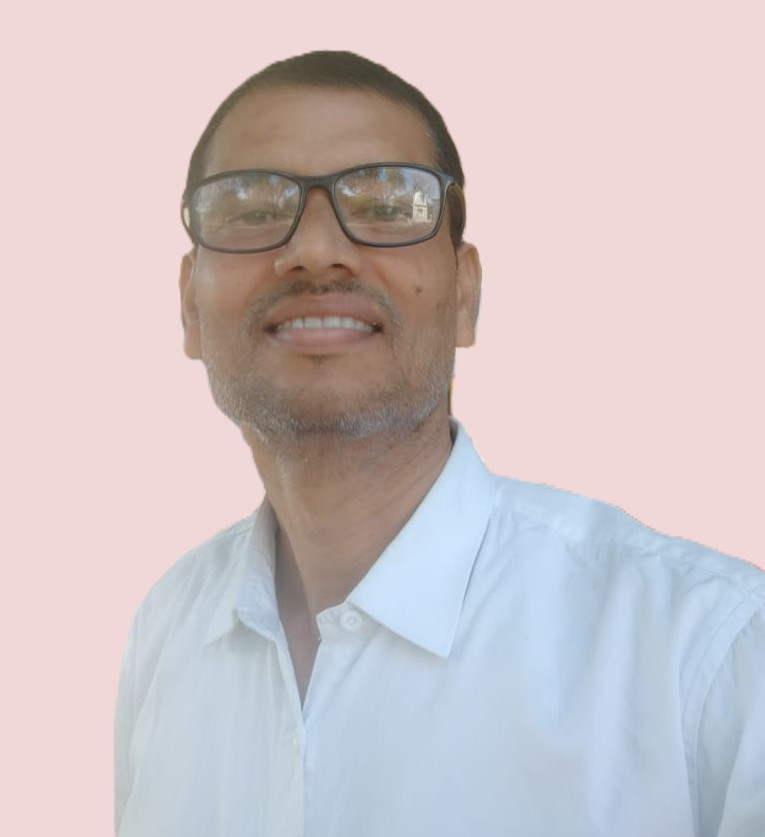
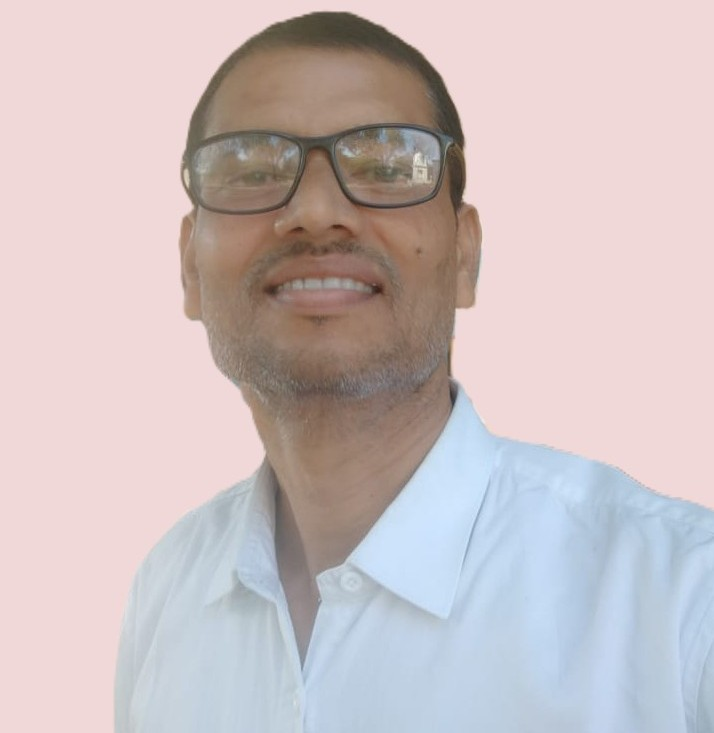
Member updated

diff --git a/index.html b/index.html
@@ -1347,7 +1347,13 @@
         </div>
         <div class="col-lg-4 col-md-6 wow fadeInUp" data-wow-delay="0.3s">
           <div class="team-item text-center p-4">
-            <img class="img-fluid border rounded-circle w-75 p-2 mb-4" src="img/Members/devendra_mahan.png" alt="" />
+            <div class="img-bio-wrapper position-relative d-inline-block">
+              <img class="img-fluid border rounded-circle w-75 p-2 mb-4" src="img/Members/devendra_mahan.png" alt="" />
+              <button class="btn btn-success rounded-pill btn-sm bio-btn position-absolute translate-middle-x start-50"
+                style="bottom: 0;" data-member="devendra" type="button">
+                <i class="fas fa-info-circle"></i>
+              </button>
+            </div>
             <div class="team-text">
               <div class="team-title">
                 <h5>Devendra Mahan</h5>
@@ -1447,7 +1453,13 @@
       <div class="row g-4">
         <div class="col-lg-4 col-md-6 wow fadeInUp" data-wow-delay="0.1s">
           <div class="team-item text-center p-4">
-            <img class="img-fluid border rounded-circle w-75 p-2 mb-4" src="img/Members/manohar.png" alt="" />
+            <div class="img-bio-wrapper position-relative d-inline-block">
+              <img class="img-fluid border rounded-circle w-75 p-2 mb-4" src="img/Members/manohar.png" alt="" />
+              <button class="btn btn-success rounded-pill btn-sm bio-btn position-absolute translate-middle-x start-50"
+                style="bottom: 0;" data-member="manoharsingh" type="button">
+                <i class="fas fa-info-circle"></i>
+              </button>
+            </div>
             <div class="team-text">
               <div class="team-title">
                 <h5>Manohar Singh</h5>
@@ -1552,7 +1564,13 @@
         </div>
         <div class="col-lg-4 col-md-6 wow fadeInUp" data-wow-delay="0.3s">
           <div class="team-item text-center p-4">
-            <img class="img-fluid border rounded-circle w-75 p-2 mb-4" src="img/Members/indrapal.jpeg" alt="" />
+            <div class="img-bio-wrapper position-relative d-inline-block">
+              <img class="img-fluid border rounded-circle w-75 p-2 mb-4" src="img/Members/indrapal.jpeg" alt="" />
+              <button class="btn btn-success rounded-pill btn-sm bio-btn position-absolute translate-middle-x start-50"
+                style="bottom: 0;" data-member="indrapal" type="button">
+                <i class="fas fa-info-circle"></i>
+              </button>
+            </div>
             <div class="team-text">
               <div class="team-title">
                 <h5>Indrapal Singh</h5>
@@ -1642,7 +1660,13 @@
         </div>
         <div class="col-lg-4 col-md-6 wow fadeInUp" data-wow-delay="0.3s">
           <div class="team-item text-center p-4">
-            <img class="img-fluid border rounded-circle w-75 p-2 mb-4" src="img/Members/shreeram.jpeg" alt="" />
+            <div class="img-bio-wrapper position-relative d-inline-block">
+              <img class="img-fluid border rounded-circle w-75 p-2 mb-4" src="img/Members/shreeram.jpeg" alt="" />
+              <button class="btn btn-success rounded-pill btn-sm bio-btn position-absolute translate-middle-x start-50"
+                style="bottom: 0;" data-member="shriram" type="button">
+                <i class="fas fa-info-circle"></i>
+              </button>
+            </div>
             <div class="team-text">
               <div class="team-title">
                 <h5>Shriram Singh</h5>
@@ -1675,7 +1699,7 @@
               <img class="img-fluid border rounded-circle w-75 p-2 mb-4" src="img/Members/rampal.jpeg" alt="" />
               <div class="team-text">
                 <div class="team-title">
-                  <h5>Rampal Singh"</h5>
+                  <h5>Rampal Singh</h5>
                   <span>Committee Member</span>
                 </div>
                 <div class="team-social">
@@ -1686,14 +1710,14 @@
           </div>
           <div class="col-lg-4 col-md-6 wow fadeInUp" data-wow-delay="0.3s">
             <div class="team-item text-center p-4">
-              <img class="img-fluid border rounded-circle w-75 p-2 mb-4" src="img/Members/Ramkishor.jpeg" alt="" />
+              <img class="img-fluid border rounded-circle w-75 p-2 mb-4" src="img/Members/parmanand.jpeg" alt="" />
               <div class="team-text">
                 <div class="team-title">
-                  <h5>Ramkishor Rajput </h5>
+                  <h5>Parmanand Anuragi</h5>
                   <span>Committee Member</span>
                 </div>
                 <div class="team-social">
-                  <h5 class="profession-title">Agriculture department</h5>
+                  <h5 class="profession-title">(व्यवसायी) राठ</h5>
                 </div>
               </div>
             </div>
@@ -1720,6 +1744,20 @@
                 <div class="team-text">
                   <div class="team-title">
                     <h5>Er. Deepak Rajput"</h5>
+                    <span>Committee Member</span>
+                  </div>
+                  <div class="team-social">
+                    <h5 class="profession-title">Engineer</h5>
+                  </div>
+                </div>
+              </div>
+            </div>
+            <div class="col-lg-4 col-md-6 wow fadeInUp" data-wow-delay="0.3s">
+              <div class="team-item text-center p-4">
+                <img class="img-fluid border rounded-circle w-75 p-2 mb-4" src="img/Members/premnarayan.jpeg" alt="" />
+                <div class="team-text">
+                  <div class="team-title">
+                    <h5>Er. Premnarayan Singh</h5>
                     <span>Committee Member</span>
                   </div>
                   <div class="team-social">

diff --git a/js/main.js b/js/main.js
@@ -493,6 +493,12 @@ document.querySelectorAll('.navbar-nav .nav-link, .navbar-nav .dropdown-item').f
 const teamBios = {
     narendra: "Narendra Singh Lodhi belongs to a farmer family, he has done his graduation in agriculture from Brahmanand Mahavidyalaya Rath Hamirpur Uttar Pradesh and graduation in education from Dr. Harisingh Gour Vishwavidyalaya Sagar Madhya Pradesh.Currently working as a science teacher in Chitrakoot district UP.His special focus is to make arrangements for financial support for the educational needs of dedicated students struggling with financial problems by appealing to the society. He has also run successful missions for the treatment of dozens of poor helpless seriously ill people, which has saved the lives of many people.Narendra Singh is also known as a motivator among the youth and he also has a special contribution in enhancing the talents of the region.  He is very fond of reading books. He remains in touch with senior writers of Hindi literature. He writes articles to attract the youth towards books and also delivers books from his personal collection to the people. He even delivers books to their homes so that their interest in books increases and they have basic knowledge about various subjects and issues in society. At present, he is working to save the youth from false information being spread through social media.",
     mukesh: "Dr. Mukesh Kumar is a passionate forest ecologist with roots in an agrarian family. He earned his undergraduate degree from Banaras Hindu University, Varanasi, and completed his postgraduate studies and Ph.D. at Jawaharlal Nehru University, New Delhi. He is currently working as a postdoctoral fellow at the National Institute of Science Education and Research (NISER), Bhubaneswar, and Jawaharlal Nehru University.His research primarily focuses on the ecology of Himalayan pine and oak forest ecosystems. Over the course of his academic journey, Dr. Kumar has been awarded several prestigious international fellowships and travel grants, including those from the British Ecological Society, the International Biogeography Society, and the DST-SERB, allowing him to present his work in countries such as the UK, Spain, Estonia, and Indonesia.Beyond academia, Dr. Kumar maintains a strong interest in sustainable agriculture. He has developed an Integrated Farming Model tailored to the drought-prone Bundelkhand region, reflecting his commitment to bridging ecological research and grassroots farming practices.",
+    indrapal: "Indra Pal Singh Rajput was born in a farmer family of Jarakhar, a small village in UP. Almost all the villagers of Jarakhar village participated enthusiastically in the freedom struggle. The highest number of freedom fighters in the district was also in Jarakhar, more than 60. In 1938, the Congress session was also held in Jarakhar. At that time Swami Brahmanand was the District President of Congress. Pandit Jawaharlal Nehru, Govind Ballabh Pant and hundreds of people participated in that session. The great freedom fighter from the village, Shri Shripat Sahay Rawat, who went to jail five times in the freedom struggle, was also an MLA twice.My primary education was completed in the village itself.I did my graduation from Brahmanand Mahavidyalaya Rath. After doing Bachelor of Education from DIET Charkhari, I am currently working as a teacher. And I am constantly giving momentum to the thoughts of Swami Brahmanand ji and also working to take my society towards education by removing superstition, hypocrisy and rituals prevalent in the society.",
+    manoharsingh: "Manohar Singh belongs to a farmer family, resident of village Pawai, Tehsil Sarila district Hamirpur Uttar Pradesh. His current educational qualification is D-Pharma, M.B.A. As a profession he is a medicine trader.Working as a social worker since his student days, in his village he plays an important role in organizing, mass marriages of very low cost weddings through Siyamata Samajik Jankalyan Samiti 14 years,Present time Jila Lodhi samaj Kalyan Samiti Rath,Hamirpur U.P. since last 5 years.In Rath Hamirpur area he is working very actively for the last eight years for the promotion of educational and social thoughts of Swami Brahmanand ji through Lakshya Parivar Rath organization.He also works promptly from time to time for various educational events and for helping economically weak students.",
+
+    devendra: "Devendra Mahan comes from an elite farmer family and social worker family of the region, he is a resident of village Sikrodha Tehsil Sarila District Hamirpur which is situated on the banks of Betwa river. Along with being highly educated and a businessman, he always plays a leading role in humanitarian works, he is also working relentlessly with the thought of spreading the teachings of Swami Brahmanand ji, India's first saint MP, freedom fighter, the sacrifice idol who brought about an education revolution in Bundelkhand, to the masses.",
+
+    shriram: "Shriram Singh Lodh ---- You are currently working as Chief Ticket Inspector in North Central Railway. You were born in a poor but elite family in rural environment, whose grandfather was the Gram Pradhan of the third largest Gram Panchayat of Banda district at that time for three consecutive five years. He provided free medical treatment to patients of his own village as well as other regional villages throughout his life. During his tenure as Gram Pradhan, he set an unparalleled example of social service by establishing a Junior High School by donating 14 bighas of land to the school. Following the values given by the elders and their footsteps, after primary education in the village, even in the condition of economic poverty, you studied from class IX to graduation from 1983 to 1988 with the money earned by working as a labourer and teaching tuitions in Banda.  Thereafter, he fulfilled his family responsibilities while teaching in a private school in a very backward area of Madhya Pradesh at a meager salary of Rs. 100 per month. In the midst of meager resources and lack of competitive study material, he got his current government job from Railway Recruitment Board, Mumbai, in 1997 through text books and radio news. He believes that \"a life of struggle is the real life\" and making this come true, even while being in government service, he stayed away from a life of luxury, did not limit himself to his own people, went from village to village and showed the path to a respectable life to the neglected people of the society by opening free coaching and libraries through Lakshya Organisation.  So far, by visiting hundreds of backward villages and organizing meetings among the villagers, you have spread awareness about education. Along with this, you have tried your best to free the society from vices, hypocrisy, superstitions and evil practices, which have yielded pleasing results. Currently, under the banner of your own registered NGO \“Jeevan Sudha Foundation\”, you are continuously working on the world's most important issue \“Nature and Environment Conservation\”"
     // Add more as needed
 };
 